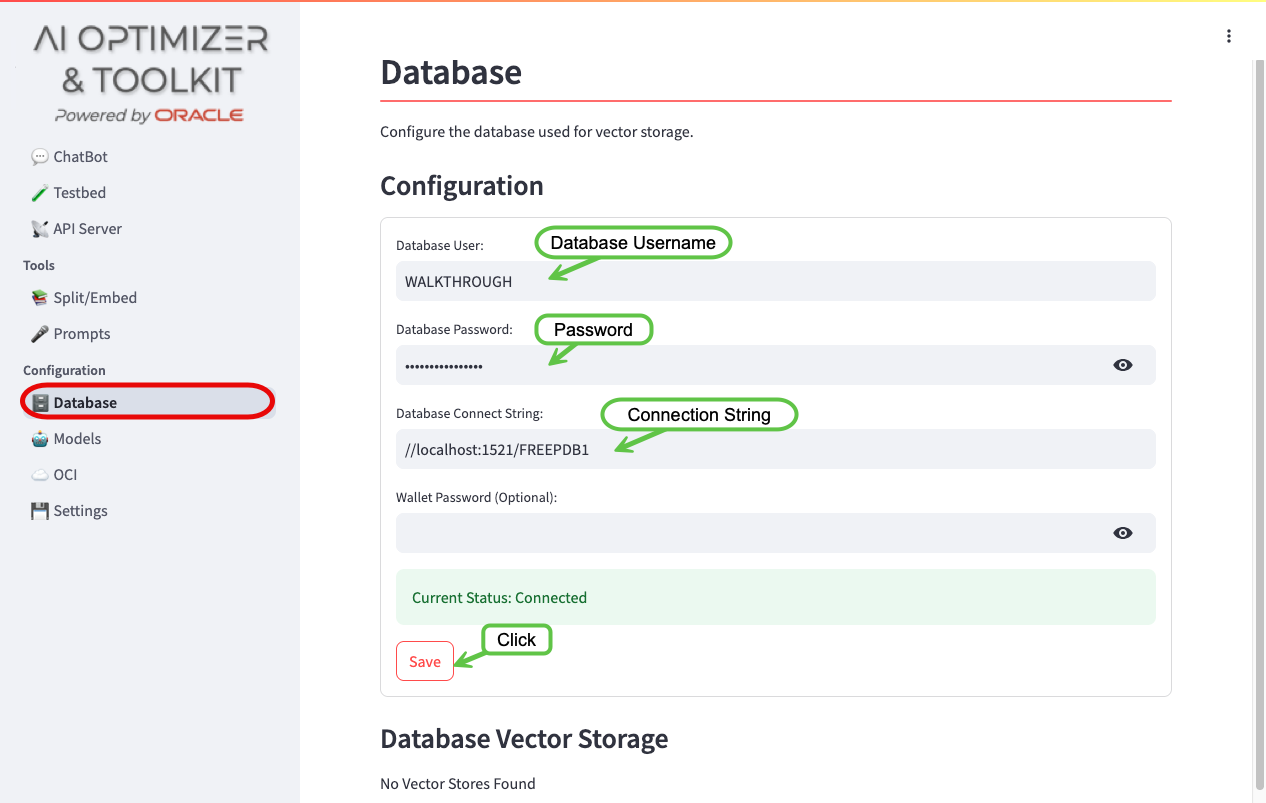
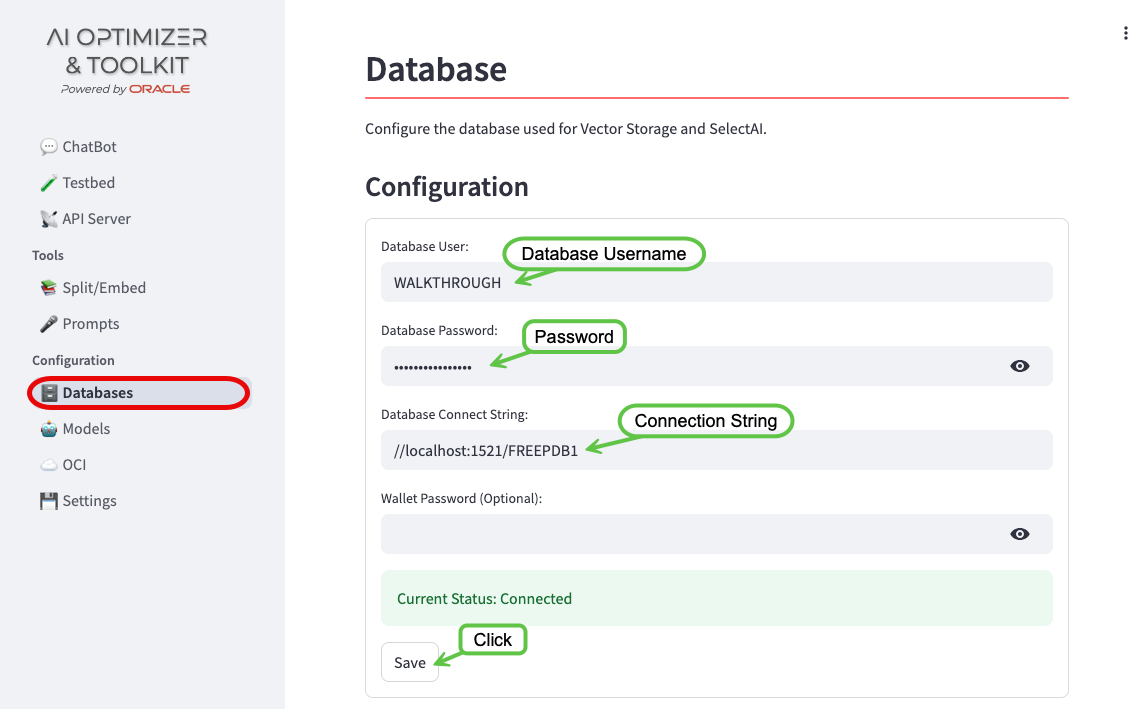
Updated Doco for 1.1

diff --git a/docs/content/walkthrough/_index.md b/docs/content/walkthrough/_index.md
@@ -18,7 +18,8 @@ By the end of the walkthrough you will be familiar with:
 - Configuring a Large Language Model (**LLM**)
 - Configuring an Embedding Model
 - Configuring the Vector Storage
-- Splitting, Embedding, and Storing vectors for **RAG**
+- Splitting, Embedding, and Storing vectors
+- Configuring SelectAI
 - Experimenting with the {{< short_app_ref >}}
 
 What you'll need for the walkthrough:
@@ -49,7 +50,7 @@ You will run four container images to establish the "Infrastructure":
 
 - On-Premises **LLM** - llama3.1
 - On-Premises Embedding Model - mxbai-embed-large
-- Vector Storage - Oracle Database 23ai Free
+- Vector Storage/SelectAI - Oracle Database 23ai Free
 - The {{< short_app_ref >}}
 
 ### LLM - llama3.1
@@ -128,18 +129,27 @@ To enable the **RAG** functionality, access to an embedding model is required. T
 
 The {{< short_app_ref >}} provides an easy to use front-end for experimenting with **LLM** parameters and **RAG**.
 
-1. Download and Unzip the latest version of the {{< short_app_ref >}}:
+1. Download and Unzip the [latest release](https://github.com/oracle-samples/ai-optimizer/releases/latest) of the {{< short_app_ref >}}:
 
    ```bash
-   curl -L -o ai-optimizer.tar.gz https://github.com/oracle-samples/ai-optimizer/archive/refs/heads/main.tar.gz
+   curl -s https://api.github.com/repos/oracle-samples/ai-optimizer/releases/latest \
+   | grep tarball_url \
+   | cut -d '"' -f 4 \
+   | xargs curl -L -o ai-optimizer.tar.gz
+   ```
+
+   ```bash
    mkdir ai-optimizer
+   ```
+
+   ```bash
    tar zxf ai-optimizer.tar.gz --strip-components=1 -C ai-optimizer
    ```
 
 1. Build the Container Image
 
    ```bash
-   cd ai-optimizer-client/src
+   cd ai-optimizer/src
    podman build --arch amd64 -t localhost/ai-optimizer-aio:latest .
    ```
 
@@ -148,25 +158,6 @@ The {{< short_app_ref >}} provides an easy to use front-end for experimenting wi
    ```bash
    podman run -d --name ai-optimizer-aio --network=host localhost/ai-optimizer-aio:latest
    ```
-
-   Operating System specific instructions:
-   {{< tabs "client" >}}
-   {{% tab title="Linux" %}}
-   If you are running on a remote host, you may need to allow access to the `8501` port.
-
-   For example, in Oracle Linux 8/9 with `firewalld`:
-
-   ```bash
-   firewall-cmd --zone=public --add-port=8501/tcp
-   ```
-   {{% /tab %}}
-   {{% tab title="MacOS/Windows" %}}
-   As the container is running in a VM, a port-forward is required from the localhost to the Podman VM:
-   ```bash
-   podman machine ssh -- -N -L 8501:localhost:8501
-   ```
-   {{% /tab %}}
-   {{% /tabs %}}
 
 ### Vector Storage - Oracle Database 23ai Free
 
@@ -207,6 +198,25 @@ To start Oracle Database 23ai Free:
    ```
 
 ## Configuration
+
+Operating System specific instructions:
+{{< tabs "client" >}}
+{{% tab title="Linux" %}}
+If you are running on a remote host, you may need to allow access to the `8501` port.
+
+For example, in Oracle Linux 8/9 with `firewalld`:
+
+```bash
+firewall-cmd --zone=public --add-port=8501/tcp
+```
+{{% /tab %}}
+{{% tab title="MacOS/Windows" %}}
+As the container is running in a VM, a port-forward is required from the localhost to the Podman VM:
+```bash
+podman machine ssh -- -N -L 8501:localhost:8501
+```
+{{% /tab %}}
+{{% /tabs %}}
 
 With the "Infrastructure" in-place, you're ready to configure the {{< short_app_ref >}}. 
 
@@ -263,14 +273,14 @@ To configure Oracle Database 23ai Free, navigate to the _Configuration -> Databa
 
 ## Split and Embed
 
-With the embedding model and database configured, you can now split and embed documents for use in **RAG**.
+With the embedding model and database configured, you can now split and embed documents for use in **Vector Search**.
 
 Navigate to the _Split/Embed_ Screen:
 
 1. Change the File Source to `Web`
 1. Enter the URL: 
    ```text
-   https://docs.oracle.com/en/database/oracle/oracle-database/23/vecse/ai-vector-search-users-guide.pdf
+   https://docs.oracle.com/en/engineered-systems/health-diagnostics/autonomous-health-framework/ahfug/oracle-autonomous-health-framework-users-guide.pdf
    ```
 1. Press Enter
 1. Give the Vector Store an Alias: `WALKTHROUGH`
@@ -284,9 +294,9 @@ Depending on the infrastructure, the embedding process can take a few minutes. A
 ![Split and Embed](images/split_embed_web.png)
 
 {{% notice style="code" title="Thumb Twiddling" icon="circle-info" %}}
-You can watch the progress of the embedding by streaming the logs: `podman logs -f ai-optimizer-aio`
+You can watch the progress of the embedding by streaming the server logs: `podman exec -it ai-optimizer-aio tail -f /app/apiserver_8000.log`
 
-Chunks are processed in batches. Wait until the logs output: `POST Response: <Response [200]>` before continuing.
+Chunks are processed in batches. Wait until the logs output: `POST ... HTTP/1.1" 200 OK` before continuing.
 {{% /notice %}}
 
 ### Query the Vector Store
@@ -307,25 +317,27 @@ From the command line:
    select * from WALKTHROUGH.WALKTHROUGH_MXBAI_EMBED_LARGE_512_103_COSINE_HNSW;
    ```
 
-## Experiment
+## Experiment with Vector Search
 
 With the {{< short_app_ref >}} configured, you're ready for some experimentation.
 
-Navigate back to the _ChatBot_. There will be no more configuration warnings.
+Navigate back to the _ChatBot_.
 
 For this guided experiment, perform the following:
 
 1. Ask the _ChatBot_:
    ```text
-   In Oracle Database 23ai, how do I determine the accuracy of my vector indexes?
+   In Oracle Database 23ai, how do I use AHF?
    ```
 
 Responses may vary, but generally the _ChatBot_'s response will be inaccurate, including:
 
 - Not understanding that 23ai is an Oracle Database release. This is known as knowledge-cutoff.
-- Suggestions of running SELECTS, irrelevant DBMS or non-existent stored procedures, and maybe an ANALYZE. These are hallucinations.
+- Suggestions that AFH has to do with a non-existant Hybrid Feature and running `emcli` commands. These are hallucinations.
 
-Now enable _RAG?_ and simply ask: `Are you sure?`
+Now select "Vector Search" in the Toolkit options and simply ask: `Are you sure?`
+
+![Enable RAG](images/chatbot_vs_enable.png)
 
 {{% notice style="code" title="Performance: Host Overload..." icon="circle-info" %}}
 With **RAG** enabled, all the services (**LLM**/Embedding Models and Database) are being utilized simultaneously:
@@ -339,10 +351,8 @@ With **RAG** enabled, all the services (**LLM**/Embedding Models and Database) a
 Depending on your hardware, this may cause the response to be **_significantly_** delayed.
 {{% /notice %}}
 
-![Enable RAG](images/chatbot_rag_enable.png)
-
 By asking `Are you sure?`, you are taking advantage of the {{< short_app_ref >}}'s history and context functionality.  
-The response should be different and include references to `DBMS_VECTOR` and links to the embedded documentation where this information can be found. It might even include an apology!
+The response should be different and include references to `Cluster Health Advisor` and links to the embedded documentation where this information can be found. It might even include an apology!
 
 ## What's Next?
 
